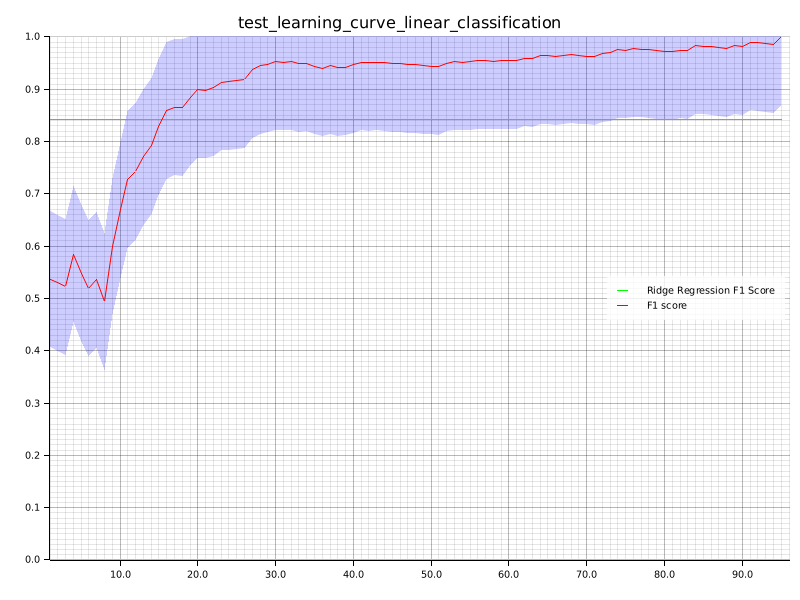
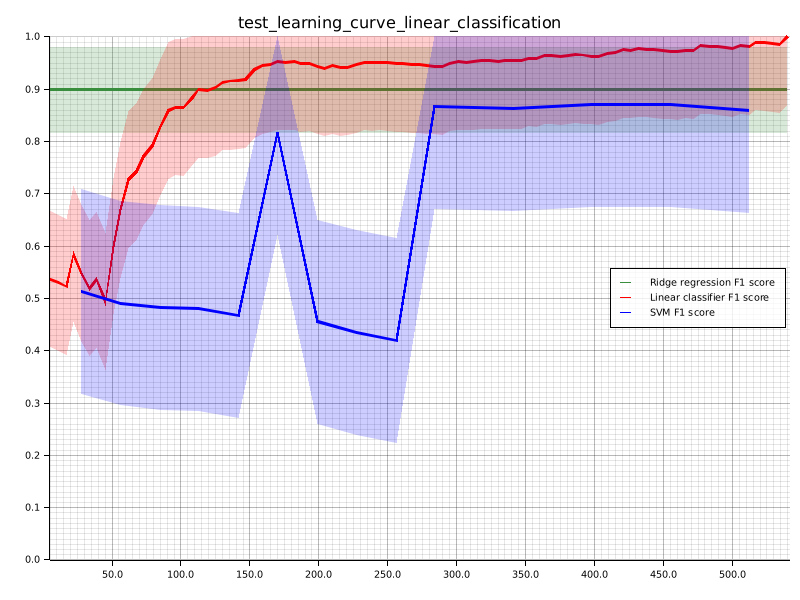
feat: merge last two plots; add confidence interval for ridge regression

diff --git a/src/main.rs b/src/main.rs
@@ -1,15 +1,16 @@
 use linear::{
     gradient_descent::{LinearClassifier, LossType},
-    parse::{csv_entries_to_ridge_samples, Sample, DIMENSIONS},
+    parse::{csv_entries_to_samples, Sample, DIMENSIONS},
     ridge_regression::RidgeRegression,
     support_vector_machine::{KernelType, SupportVectorMachine},
 };
 use nalgebra::{DMatrix, DVector};
 use plotters::{
-    chart::ChartBuilder,
-    prelude::{BitMapBackend, IntoDrawingArea, PathElement},
+    chart::{ChartBuilder, ChartContext},
+    coord::types::RangedCoordf64,
+    prelude::{BitMapBackend, Cartesian2d, IntoDrawingArea, PathElement},
     series::LineSeries,
-    style::{Color, BLUE, GREEN, RED, WHITE},
+    style::{full_palette::GREEN_700, Color, RGBColor, BLACK, BLUE, RED, WHITE},
 };
 use std::{error::Error, path::Path};
 
@@ -19,6 +20,7 @@ fn split(samples: &[Sample], train_ratio: f64) -> (Vec<Sample>, Vec<Sample>) {
     let train_size = (samples.len() as f64 * train_ratio) as usize;
 
     let (first, second) = samples.split_at(train_size);
+
     (first.to_vec(), second.to_vec())
 }
 
@@ -118,25 +120,22 @@ fn plot_learning_curve(
     Ok(())
 }
 
+#[allow(clippy::too_many_arguments)]
 fn plot_learning_curve_with_confidence_intervals(
-    values: &[(i32, f64)],
     title: &str,
-    label: &str,
     filename: &str,
-    confidence_intervals: &[f64],
-    ridge_regression_f1_score: f64,
+    values_lc: &[(i32, f64)],
+    values_svm: &[(i32, f64)],
+    values_ridge: &[(i32, f64)],
+    confidence_intervals_lc: &[f64],
+    confidence_intervals_svm: &[f64],
+    confidence_intervals_ridge: &[f64],
 ) -> Result<(), Box<dyn Error>> {
     let root = BitMapBackend::new(Path::new(filename), (800, 600)).into_drawing_area();
     root.fill(&WHITE)?;
 
-    let x_range = values[0].0 as f64..values.last().unwrap().0 as f64 + 1.0;
+    let x_range = values_lc[0].0 as f64..values_lc.last().unwrap().0 as f64 + 1.0;
     let y_range = 0.0..1.0;
-
-    #[allow(clippy::cast_sign_loss)]
-    #[allow(clippy::cast_possible_truncation)]
-    let x_values: Vec<f64> = (x_range.start as usize..x_range.end as usize)
-        .map(|x| x as f64)
-        .collect();
 
     let mut chart = ChartBuilder::on(&root)
         .caption(title, ("sans-serif", 20))
@@ -147,44 +146,72 @@ fn plot_learning_curve_with_confidence_intervals(
 
     chart.configure_mesh().draw()?;
 
-    let filled_area = {
-        let mut area = Vec::new();
-        for (&(x, y), &high) in values.iter().zip(confidence_intervals.iter()) {
-            area.push((x as f64, y + high));
-        }
-        for (&(x, y), &low) in values.iter().zip(confidence_intervals.iter()).rev() {
-            area.push((x as f64, y - low));
-        }
-        area
+    let plot_values_with_intervals = |chart: &mut ChartContext<
+        '_,
+        BitMapBackend<'_>,
+        Cartesian2d<RangedCoordf64, RangedCoordf64>,
+    >,
+                                      values: &[(i32, f64)],
+                                      confidence_intervals: &[f64],
+                                      color: RGBColor,
+                                      label: &str|
+     -> Result<(), Box<dyn Error>> {
+        let filled_area = {
+            let mut area = Vec::new();
+            for (&(x, y), &high) in values.iter().zip(confidence_intervals.iter()) {
+                area.push((x as f64, y + high));
+            }
+            for (&(x, y), &low) in values.iter().zip(confidence_intervals.iter()).rev() {
+                area.push((x as f64, y - low));
+            }
+            area
+        };
+
+        chart.draw_series(std::iter::once(plotters::prelude::Polygon::new(
+            filled_area,
+            color.mix(0.2).filled(),
+        )))?;
+
+        chart
+            .draw_series(LineSeries::new(
+                values.iter().map(|&(x, y)| (x as f64, y)),
+                color.stroke_width(2),
+            ))?
+            .label(label)
+            .legend(move |(x, y)| PathElement::new(vec![(x, y), (x + 10, y)], color));
+
+        Ok(())
     };
 
-    chart.draw_series(std::iter::once(plotters::prelude::Polygon::new(
-        filled_area,
-        BLUE.mix(0.2).filled(),
-    )))?;
-
-    chart
-        .draw_series(LineSeries::new(
-            x_values.iter().map(|&x| (x, ridge_regression_f1_score)),
-            GREEN,
-        ))?
-        .label("Ridge Regression F1 Score")
-        .legend(|(x, y)| PathElement::new(vec![(x, y), (x + 10, y)], GREEN));
-
-    chart
-        .draw_series(LineSeries::new(
-            values.iter().map(|&(x, y)| (x as f64, y)),
-            &RED,
-        ))?
-        .label(label)
-        .legend(|(x, y)| PathElement::new(vec![(x, y), (x + 10, y)], RED));
+    plot_values_with_intervals(
+        &mut chart,
+        values_ridge,
+        confidence_intervals_ridge,
+        GREEN_700,
+        "Ridge regression F1 score",
+    )?;
+    plot_values_with_intervals(
+        &mut chart,
+        values_lc,
+        confidence_intervals_lc,
+        RED,
+        "Linear classifier F1 score",
+    )?;
+    plot_values_with_intervals(
+        &mut chart,
+        values_svm,
+        confidence_intervals_svm,
+        BLUE,
+        "SVM F1 score",
+    )?;
 
     chart
         .configure_series_labels()
         .background_style(WHITE.mix(0.8))
+        .border_style(BLACK)
         .draw()?;
 
-    println!("plot saved to {filename}");
+    println!("Plot saved to {filename}");
 
     Ok(())
 }
@@ -214,13 +241,11 @@ fn main() -> Result<(), Box<dyn Error>> {
     assert!(!entries.is_empty());
     assert_eq!(entries.first().unwrap().values.len(), DIMENSIONS);
 
-    let samples = csv_entries_to_ridge_samples(entries);
+    let samples = csv_entries_to_samples(entries);
 
     const TRAIN_RATIO: f64 = 0.6;
-    const VALIDATION_RATIO: f64 = 0.6; // of samples that are not train
 
     let (train_samples, test_samples) = split(&samples, TRAIN_RATIO);
-    let (test_samples, _validation_samples) = split(&test_samples, VALIDATION_RATIO);
 
     run_ridge_regression(&train_samples, &test_samples);
 
@@ -241,11 +266,10 @@ fn main() -> Result<(), Box<dyn Error>> {
     );
     run_train_learning_curve_svm(&train_matrix, &train_labels, "train_learning_curve_svm");
 
-    learning_curve_test_linear_classification(
+    learning_curve_test_linear_classification_and_svm(
         &samples,
         "test_learning_curve_linear_classification",
     );
-    learning_curve_test_svm(&samples, "test_learning_curve_svm");
 
     Ok(())
 }
@@ -407,17 +431,18 @@ fn run_train_learning_curve_svm(
     .unwrap();
 }
 
-fn learning_curve_test_linear_classification(samples: &[Sample], filename: &str) {
+#[allow(clippy::similar_names)]
+fn learning_curve_test_linear_classification_and_svm(samples: &[Sample], filename: &str) {
     const LEARNING_RATE: f64 = 0.01;
     const ELASTIC_NET_REGULARIZATION: f64 = 0.01;
     const LOSS_TYPE: LossType = LossType::Exponential;
     const EPOCHS: usize = 1000;
+    let ratio_percents_lc = 1..=95;
 
-    let mut test_f1s = vec![];
+    let mut test_f1s_lc = vec![];
+    let mut samples_len_lc = Vec::new();
 
-    let ratio_percents = 1..=95;
-
-    for ratio_percent in ratio_percents.clone() {
+    for ratio_percent in ratio_percents_lc.clone() {
         let ratio = ratio_percent as f64 / 100.0;
         let (train_samples, test_samples) = split(samples, ratio);
 
@@ -431,46 +456,23 @@ fn learning_curve_test_linear_classification(samples: &[Sample], filename: &str)
             test_predictions.push(prediction);
         }
 
-        let test_f1 = calculate_f1_score(&test_samples, &test_predictions);
-        test_f1s.push(test_f1);
+        let test_f1_lc = calculate_f1_score(&test_samples, &test_predictions);
+        test_f1s_lc.push(test_f1_lc);
+        samples_len_lc.push(train_samples.len());
     }
 
-    let std = get_std(&test_f1s);
-
-    let f1_with_ratios: Vec<(i32, f64)> = test_f1s
-        .iter()
-        .copied()
-        .zip(ratio_percents)
-        .map(|(f1_score, ratio_percent)| (ratio_percent, f1_score))
-        .collect();
-
-    let confidence_intervals: Vec<f64> = test_f1s.iter().map(|_| std).collect();
-
-    let rigde_f1_score = get_ridge_regression_f1_score(samples);
-
-    plot_learning_curve_with_confidence_intervals(
-        &f1_with_ratios,
-        filename,
-        "F1 score",
-        &format!("{filename}.png"),
-        &confidence_intervals,
-        rigde_f1_score,
-    )
-    .unwrap();
-}
-
-fn learning_curve_test_svm(samples: &[Sample], filename: &str) {
     const KERNEL: KernelType = KernelType::RBF { gamma: 0.5 };
     const SVM_REGULARIZATION: f64 = 0.1;
     const TOLERANCE: f64 = 0.01;
     const MAX_ITERATIONS: usize = 2;
 
-    let mut test_f1s = vec![];
+    let ratio_percents_svm = [5, 10, 15, 20, 25, 30, 35, 40, 45, 50, 60, 70, 80, 90];
 
-    let ratio_percents = [5, 10, 15, 20, 25, 30, 35, 40, 45, 50, 60, 70, 80, 90];
+    let mut test_f1s_svm = vec![];
+    let mut samples_len_svm = Vec::new();
 
-    for ratio_percent in ratio_percents {
-        println!("calculating for ratio percent {ratio_percent}...");
+    for ratio_percent in ratio_percents_svm {
+        println!("calculating svm score for ratio percent {ratio_percent}...");
 
         let ratio = ratio_percent as f64 / 100.0;
         let (train_samples, test_samples) = split(samples, ratio);
@@ -492,48 +494,87 @@ fn learning_curve_test_svm(samples: &[Sample], filename: &str) {
             test_predictions.push(prediction);
         }
 
-        let test_f1 = calculate_f1_score(&test_samples, &test_predictions);
-        test_f1s.push(test_f1);
+        let test_f1_svm = calculate_f1_score(&test_samples, &test_predictions);
+        test_f1s_svm.push(test_f1_svm);
+        samples_len_svm.push(train_samples.len());
     }
 
-    let std = get_std(&test_f1s);
+    let (f1_scores_ridge, std_ridge) = get_ridge_regression_f1_scores(samples);
 
-    let f1_with_ratios: Vec<(i32, f64)> = test_f1s
+    let std_lc = get_std(&test_f1s_lc);
+    let f1_scores_lc: Vec<(i32, f64)> = test_f1s_lc
         .iter()
         .copied()
-        .zip(ratio_percents)
-        .map(|(f1_score, ratio_percent)| (ratio_percent, f1_score))
+        .zip(samples_len_lc)
+        .map(|(f1_score, len)| (i32::try_from(len).unwrap(), f1_score))
         .collect();
+    let confidence_intervals_lc: Vec<f64> = test_f1s_lc.iter().map(|_| std_lc).collect();
 
-    let confidence_intervals: Vec<f64> = test_f1s.iter().map(|_| std).collect();
+    let std_svm = get_std(&test_f1s_svm);
+    let f1_scores_svm: Vec<(i32, f64)> = test_f1s_svm
+        .iter()
+        .copied()
+        .zip(samples_len_svm)
+        .map(|(f1_score, len)| (i32::try_from(len).unwrap(), f1_score))
+        .collect();
+    let confidence_intervals_svm: Vec<f64> = test_f1s_svm.iter().map(|_| std_svm).collect();
 
-    let rigde_f1_score = get_ridge_regression_f1_score(samples);
+    let confidence_intervals_ridge: Vec<f64> =
+        f1_scores_ridge.iter().map(|(_, _)| std_ridge).collect();
 
     plot_learning_curve_with_confidence_intervals(
-        &f1_with_ratios,
         filename,
-        "F1 score",
         &format!("{filename}.png"),
-        &confidence_intervals,
-        rigde_f1_score,
+        &f1_scores_lc,
+        &f1_scores_svm,
+        &f1_scores_ridge,
+        &confidence_intervals_lc,
+        &confidence_intervals_svm,
+        &confidence_intervals_ridge,
     )
     .unwrap();
 }
 
-fn get_ridge_regression_f1_score(samples: &[Sample]) -> f64 {
-    const TRAIN_RATIO: f64 = 0.6;
-    let (train_samples, test_samples) = split(samples, TRAIN_RATIO);
+fn get_ridge_regression_f1_scores(samples: &[Sample]) -> (Vec<(i32, f64)>, f64) {
+    pub const REGULARIZATION: f64 = 0.5;
+    let ratio_percents_lc = 1..=95;
 
-    pub const REGULARIZATION: f64 = 0.0005;
-    let mut model = RidgeRegression::new(REGULARIZATION);
-    model.fit(&train_samples);
+    let mut f1_scores = Vec::new();
+    let mut max_f1_score = -1.0;
 
-    let mut test_predictions = Vec::with_capacity(test_samples.len());
+    for ratio_percent in ratio_percents_lc.clone() {
+        let ratio = ratio_percent as f64 / 100.0;
+        let (train_samples, test_samples) = split(samples, ratio);
 
-    for sample in &test_samples {
-        let prediction = model.predict(&sample.features);
-        test_predictions.push(prediction);
+        let mut model = RidgeRegression::new(REGULARIZATION);
+        model.fit(&train_samples);
+
+        let mut test_predictions = Vec::with_capacity(test_samples.len());
+
+        for sample in &test_samples {
+            let prediction = model.predict(&sample.features);
+            test_predictions.push(prediction);
+        }
+
+        let f1_score = calculate_f1_score(&test_samples, &test_predictions);
+        f1_scores.push((i32::try_from(train_samples.len()).unwrap(), f1_score));
+
+        if f1_score > max_f1_score {
+            max_f1_score = f1_score;
+        }
     }
 
-    calculate_f1_score(&test_samples, &test_predictions)
+    let std_ridge = get_std(
+        &f1_scores
+            .iter()
+            .map(|(_, score)| *score)
+            .collect::<Vec<f64>>(),
+    );
+
+    f1_scores = f1_scores
+        .iter()
+        .map(|&(samples_len, _)| (samples_len, max_f1_score))
+        .collect();
+
+    (f1_scores, std_ridge)
 }

diff --git a/src/parse.rs b/src/parse.rs
@@ -11,7 +11,7 @@ pub struct Sample {
     pub label: f64, // 1 if malignant, -1 if benign
 }
 
-pub fn csv_entries_to_ridge_samples(entries: Vec<CsvEntry>) -> Vec<Sample> {
+pub fn csv_entries_to_samples(entries: Vec<CsvEntry>) -> Vec<Sample> {
     entries
         .into_iter()
         .map(|entry| Sample {
